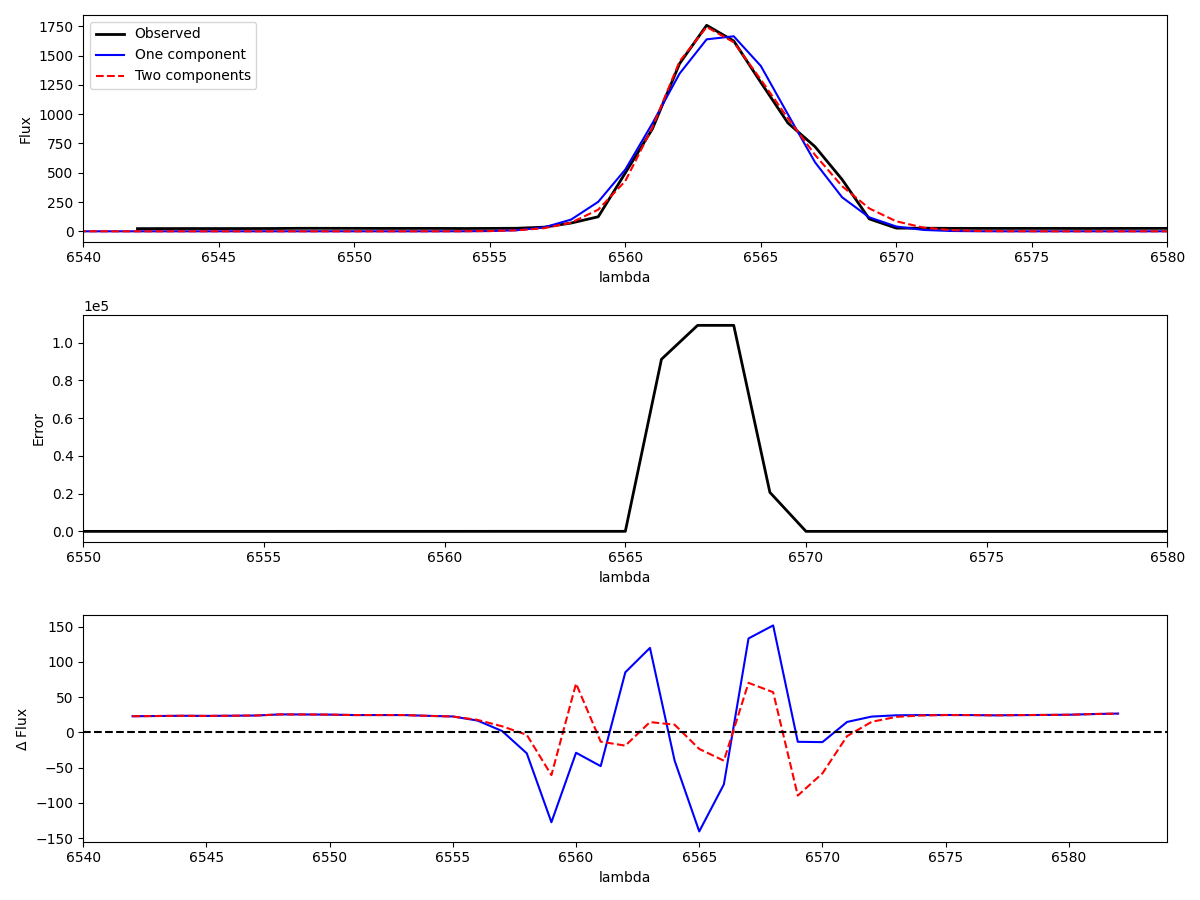
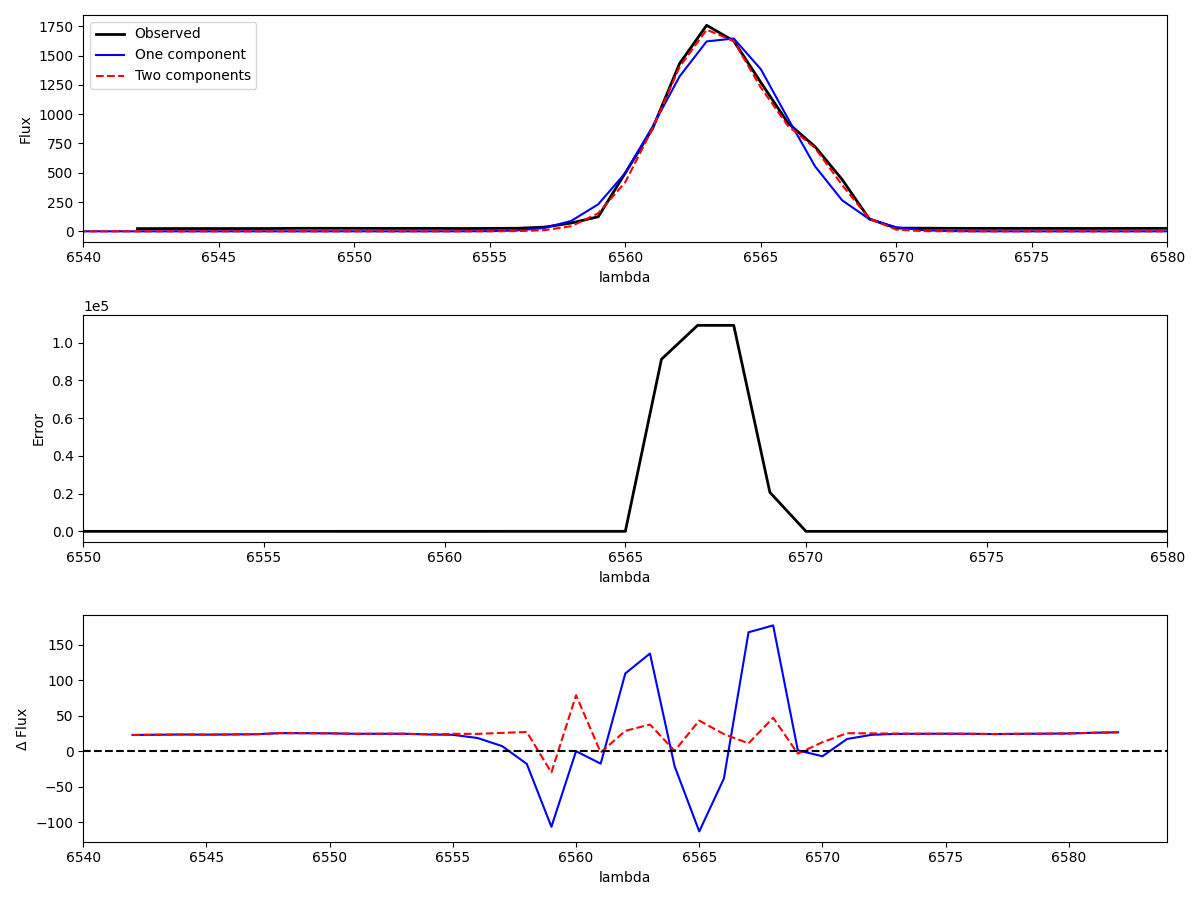
fixing bug

diff --git a/Scripts/Gregory_scripts/analysis/spectral_analysis.py b/Scripts/Gregory_scripts/analysis/spectral_analysis.py
@@ -1,37 +1,61 @@
-import numpy as np
-from scipy.interpolate import UnivariateSpline
+import numpy as np # type: ignore
+from scipy.interpolate import UnivariateSpline # type: ignore
 import rpy2.robjects as robjects # type: ignore
 from rpy2.robjects.packages import importr # type: ignore
 from rpy2.robjects.vectors import FloatVector, ListVector # type: ignore
+from statsmodels.nonparametric.smoothers_lowess import lowess # type: ignore
+from scipy.interpolate import interp1d # type: ignore
+
 
 
 class SpectralAnalysis:
-    def __init__(self, lambda_, flux, err, error_original, norm_cont, l0_line, xx_line):
-        self.lam_ex = lambda_
-        self.flux_ex = flux
-        self.error_ex = err
-        self.error_original = error_original
-        self.norm_cont = norm_cont
+    def __init__(self, lam_ex, flux, error, xx_line, l0_line=6562, norm_cont=False, **fit_cont_kwargs):
+        self.lam_ex = lam_ex.copy()
+        self.flux_ex = flux.copy()
+        self.error_original = error.copy()
         self.l0_line = l0_line
         self.xx_line = xx_line
 
-    def fit_cont(self, nsig_up=20, nsig_low=2, degree=3, span=0.05, Nit=20):
-        x1_temp = self.lam_ex
-        x2_temp = self.flux_ex
+        if norm_cont:
+            self._normalize_continuum(**fit_cont_kwargs)
+        else:
+            self.flux = self.flux_ex.copy()
+            self.error = self.error_original.copy()
+
+    def _normalize_continuum(self, **kwargs):
+        """Normaliza o fluxo subtraindo o contínuo."""
+        cont_model = self.fit_cont(**kwargs)
+        self.mean_flux = cont_model(self.lam_ex)
+        self.flux = self.flux_ex - self.mean_flux
+        self.error = np.ones_like(self.flux)
+
+    def fit_cont(self, nsig_up=20, nsig_low=2, span=0.1, Nit=10):
+        """Ajusta o contínuo usando LOESS com filtro iterativo."""
+        x1_temp = self.lam_ex.copy()
+        x2_temp = self.flux_ex.copy()
 
         for _ in range(Nit):
-            spline = UnivariateSpline(x1_temp, x2_temp, k=degree, s=span*len(x1_temp))
-            model_line = spline(x1_temp)
-            diff = x2_temp - model_line
-            xx_temp1 = (diff <= nsig_up * np.std(diff)) & (diff >= 0)
-            xx_temp2 = (np.abs(diff) <= nsig_low * np.std(diff)) & (diff < 0)
-            xx_temp = xx_temp1 | xx_temp2
-            x1_temp = x1_temp[xx_temp]
-            x2_temp = x2_temp[xx_temp]
+            smoothed = lowess(
+                x2_temp, x1_temp, frac=span, it=0, 
+                delta=0, is_sorted=True, return_sorted=False
+            )
+            residuals = x2_temp - smoothed
+            std = np.std(residuals)
             
-        final_spline = UnivariateSpline(x1_temp, x2_temp, k=degree, s=span*len(x1_temp))
-        
-        return final_spline
+            mask = (
+                ((residuals >= 0) & (residuals <= nsig_up * std)) |
+                ((residuals < 0) & (np.abs(residuals) <= nsig_low * std))
+            )
+            x1_temp, x2_temp = x1_temp[mask], x2_temp[mask]
+            
+        final_smoothed = lowess(
+            x2_temp, x1_temp, frac=span, it=0,
+            delta=0, is_sorted=True, return_sorted=False
+        )
+        return interp1d(
+            x1_temp, final_smoothed, 
+            bounds_error=False, fill_value="extrapolate"
+        )
 
     def run_analysis(self):
         bbmle = importr('bbmle')
@@ -54,8 +78,8 @@ class SpectralAnalysis:
         ''')
 
         lambda_r = FloatVector(self.lam_ex[self.xx_line])
-        flux_r = FloatVector(self.flux_ex[self.xx_line])
-        error_r = FloatVector(self.error_ex[self.xx_line])
+        flux_r = FloatVector(self.flux[self.xx_line])
+        error_r = FloatVector(self.error[self.xx_line])
 
         start_params_single = ListVector({'l0': self.l0_line, 's0': 2, 'F0': 4500})
         lower_bounds_single = ListVector({'l0': self.l0_line - 10, 's0': 1, 'F0': 5})
@@ -113,7 +137,7 @@ class SpectralAnalysis:
             temp = self.fit_cont(self.lam_ex, self.flux_ex)
             self.mean_flux = np.polyval(temp, self.lam_ex)
             self.flux_ex = self.flux_ex - self.mean_flux
-            self.flux_original = self.flux_ex
+            self.flux_ex = self.flux_ex
 
         self.xx_line = (self.lam_ex >= self.l0_line - 20) & (self.lam_ex <= self.l0_line + 20)
 

diff --git a/Scripts/Gregory_scripts/main.py b/Scripts/Gregory_scripts/main.py
@@ -16,25 +16,24 @@ def main():
     spectrum_cxt = '0555-52266-0558'
     cxt_file, png_file = get_path(spectrum_cxt)
     
-    # Carregar os dados espectrais
     ex_gal = pd.read_csv(cxt_file, sep=r'\s+', header=None)
     lam_ex = ex_gal[0][ex_gal[1] > 0].values
     flux_ex = ex_gal[1][ex_gal[1] > 0].values
     error_original = ex_gal[2][ex_gal[1] > 0].values
-    
-    # Normalização e configuração de erro
-    norm_count = True
-    error_ex = np.ones_like(flux_ex)
-    
-    # Configuração da linha espectral
     l0_line = 6562
     xx_line = (lam_ex >= l0_line - 20) & (lam_ex <= l0_line + 20)
+    
+    analyzer = SpectralAnalysis(
+        lam_ex, 
+        flux_ex, 
+        error_original,
+        xx_line=xx_line,
+        l0_line=l0_line,
+        norm_cont=True # Normalizes the continuum
+    )
+    
+    analyzer.run_analysis()
 
-    # Análise espectral
-    analyzer = SpectralAnalysis(lam_ex, flux_ex, error_ex, error_original, norm_count, l0_line, xx_line)
-    analyzer.run_analysis()  # Certifique-se de que `fit_cont` não é chamado aqui
-
-    # Plotagem dos resultados
     plotter = Plotter(analyzer, xx_line)
     plotter.save_plots(png_file)
 

diff --git a/Scripts/Gregory_scripts/analysis/spectral_analysis_plotter.py b/Scripts/Gregory_scripts/analysis/spectral_analysis_plotter.py
@@ -1,5 +1,5 @@
-import matplotlib.pyplot as plt
-import numpy as np
+import matplotlib.pyplot as plt # type: ignore
+import numpy as np # type: ignore
 
 
 class Plotter:
